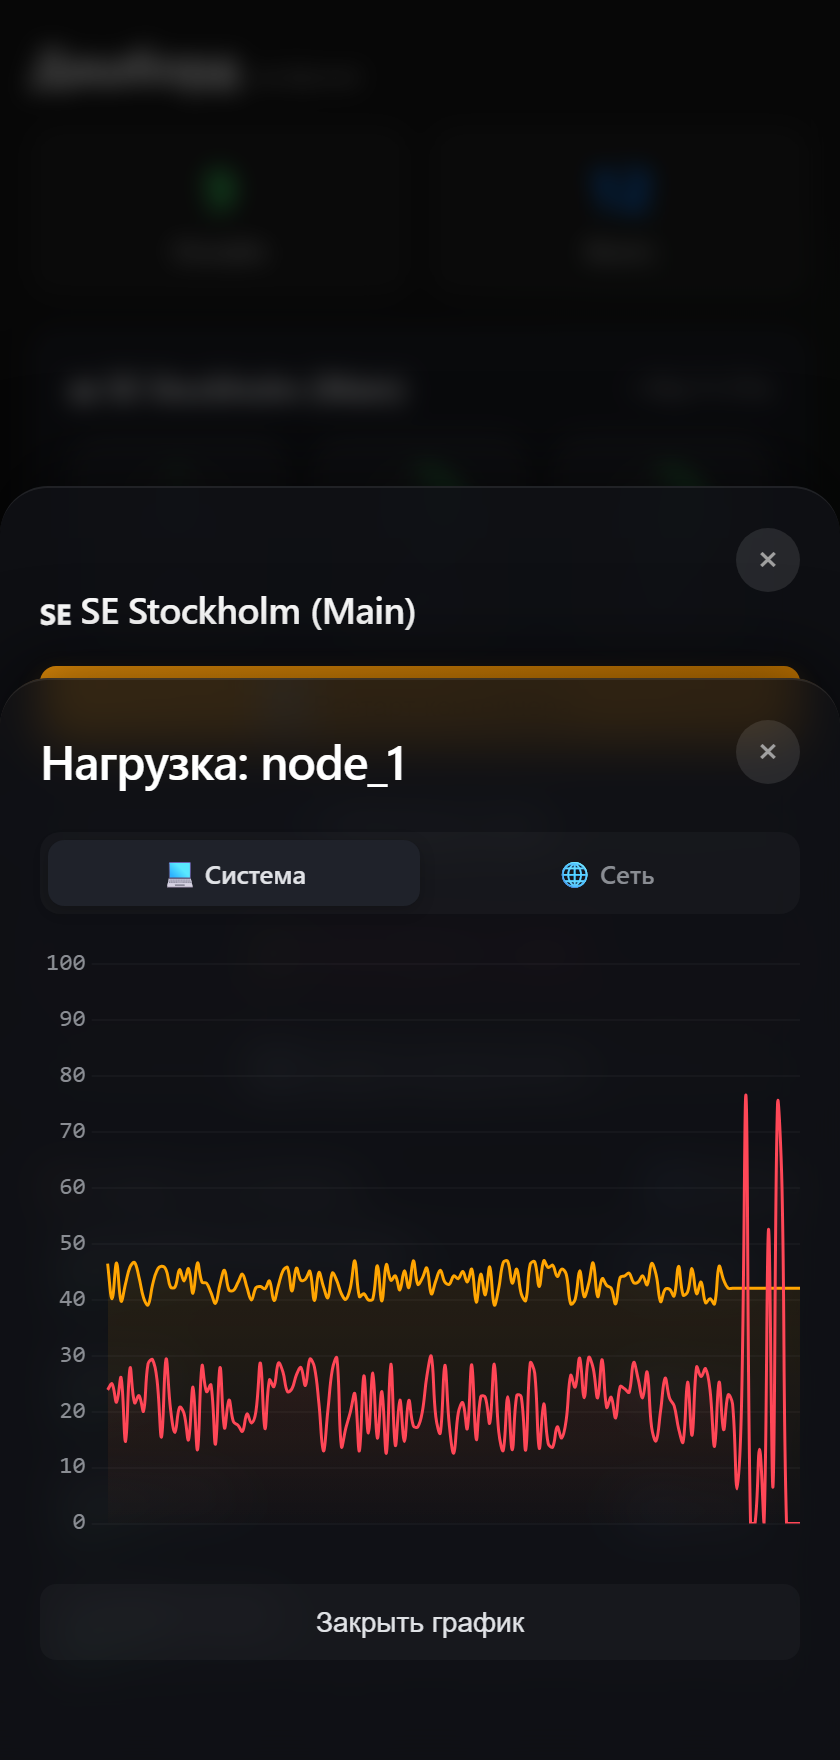
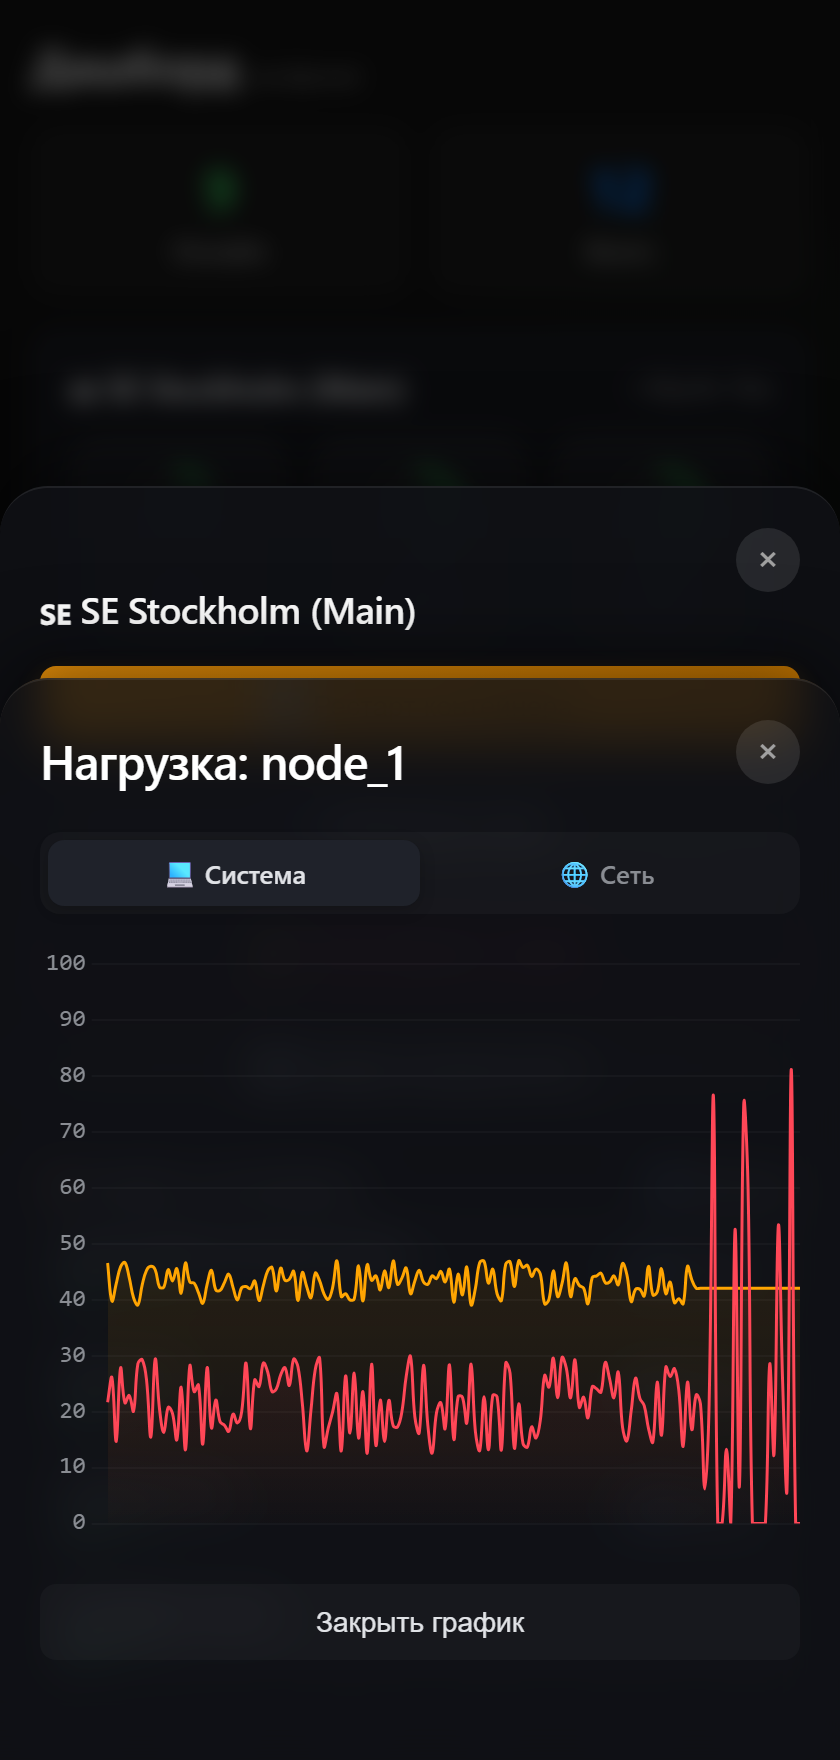
docs: add complete 10-screen showcase gallery to README

Changed region(s): [[0.1238, 0.5938, 0.9595, 0.875]]

diff --git a/README.md b/README.md
@@ -8,17 +8,25 @@
 
 <div align="center">
 
-| 📱 Главный Дашборд WebApp | 👥 Управление абонентами |
+| 🤖 Telegram Бот (`/start`) | 📱 Главный Дашборд WebApp |
 |:---:|:---:|
-| <img src="docs/screenshots/02_dashboard.png" width="380" alt="Dashboard" /> | <img src="docs/screenshots/03_subscribers.png" width="380" alt="Subscribers" /> |
+| <img src="docs/screenshots/01_telegram_bot.png" width="380" alt="Telegram Bot" /> | <img src="docs/screenshots/02_dashboard.png" width="380" alt="Dashboard" /> |
 
-| ⚙ Управление службами и нодами | 📊 График нагрузки 24ч (Chart.js) |
+| 👥 Список абонентов с фильтрами | ⚙ Управление службами узла |
 |:---:|:---:|
-| <img src="docs/screenshots/04_server_control.png" width="380" alt="Server Control" /> | <img src="docs/screenshots/05_chart_24h.png" width="380" alt="Load Chart" /> |
+| <img src="docs/screenshots/03_subscribers.png" width="380" alt="Subscribers" /> | <img src="docs/screenshots/04_server_control.png" width="380" alt="Server Control" /> |
 
-| 🤖 Telegram Бот (/start) | ✨ Создание абонента и выбор ноды |
+| 📊 График нагрузки 24ч (Chart.js) | ✨ Создание абонента (выбор ноды) |
 |:---:|:---:|
-| <img src="docs/screenshots/01_telegram_bot.png" width="380" alt="Telegram Bot" /> | <img src="docs/screenshots/06_create_user.png" width="380" alt="Create User" /> |
+| <img src="docs/screenshots/05_chart_24h.png" width="380" alt="Load Chart" /> | <img src="docs/screenshots/06_create_user.png" width="380" alt="Create User" /> |
+
+| 👤 Карточка абонента и QoS-шейпер | 💬 Техподдержка (Тикеты) |
+|:---:|:---:|
+| <img src="docs/screenshots/07_user_card.png" width="380" alt="User Card" /> | <img src="docs/screenshots/08_tickets.png" width="380" alt="Tickets" /> |
+
+| 📢 Массовая рассылка | ⚙ Системные настройки и бэкап |
+|:---:|:---:|
+| <img src="docs/screenshots/09_broadcast.png" width="380" alt="Broadcast" /> | <img src="docs/screenshots/10_settings.png" width="380" alt="Settings" /> |
 
 </div>
 
@@ -27,7 +35,7 @@
 ## 🌟 Основные возможности
 
 * 📱 **Интерактивный WebApp Дашборд:** Графика нагрузки серверов (CPU, RAM, диск, сетевая активность в реальном времени), детальная статистика по клиентам, управление ключами и тарифами в 1 клик.
-* 🌐 **Многосерверная архитектура (SE + RU):** Поддержка локальных контейнеров и удалённых нод через защищённые SSH ControlMaster соединения с автоматическим переиспользованием сокетов.
+* 🌐 **Многосерверная архитектура:** Поддержка неограниченного числа локальных и удалённых нод через защищённые SSH ControlMaster соединения с автопереиспользованием сокетов.
 * ⚡ **Аппаратный шейпер скорости (QoS):** Управление полосой пропускания через Linux Traffic Control (`tc`):
   * **Загрузка (Download / Egress):** Классы `HTB` с точным соответствием `rate == ceil` (исключает овербукинг и неконтролируемые всплески).
   * **Отдача (Upload / Ingress):** `Ingress policing` со строгим отбрасыванием пакетов (`action drop`) сверх установленного лимита (10 / 30 / 50 / 100 Мбит/с).
